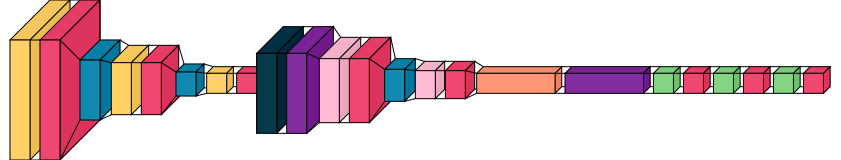
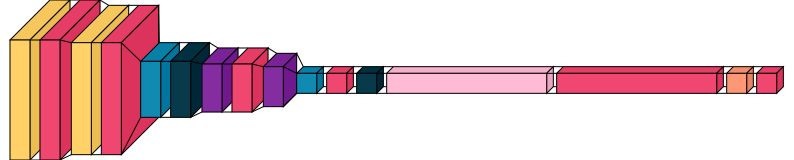
no

diff --git a/models.py b/models.py
@@ -90,33 +90,27 @@ class img_rec_models10():
     uom = 'RGB'
     def data_prep():
         (x_train, y_train), (x_test, y_test) = datasets.cifar10.load_data()
-        x_test = x_test.reshape((10000, 1, 32, 32, 3))
+        #x_test = x_test.reshape((10000, 1, 32, 32, 3))
         y_train = utils.to_categorical(y_train, 10)
         y_test = utils.to_categorical(y_test, 10)
         return (x_train, y_train), (x_test, y_test)
     class m01():
         model01 = Sequential([
             Input(shape=(32, 32, 3)),
-            layers.SeparableConv2D(filters=32, kernel_size=(3, 3),),
+            layers.SeparableConv2D(filters=32, kernel_size=(3, 3), ),
+            layers.Activation('relu'),
+            layers.SeparableConv2D(filters=32, kernel_size=(3, 3), ),
             layers.Activation('relu'),
             layers.MaxPool2D((2, 2)),
             layers.Dropout(0.2),
-            layers.SeparableConv2D(filters=32, kernel_size=(3, 3),),
+            layers.Conv2D(filters=64, kernel_size=(3, 3), kernel_initializer='random_normal'),
             layers.Activation('relu'),
-            layers.MaxPool2D((2, 2)),
-            layers.SeparableConv2D(filters=16, kernel_size=(2, 2),),
+            layers.Conv2D(filters=64, kernel_size=(3, 3), kernel_initializer='random_normal'),
+            layers.MaxPool2D((2, 2),),
             layers.Activation('relu'),
-            #layers.Reshape((20, 20, 1)),
-            #layers.Conv2D(32, (5, 5), kernel_initializer='random_normal'),
-            #layers.Activation('relu'),
-            #layers.MaxPool2D((2, 2)),
-            #layers.Conv2D(16, (2, 2), kernel_initializer='random_normal'),
-            #layers.Activation('relu'),
+            layers.Dropout(0.2),
             layers.Flatten(),
-            layers.Dropout(0.2),
-            layers.Dense(5, kernel_initializer='random_normal'),
-            layers.Activation('relu'),
-            layers.Dense(16, kernel_initializer='random_normal'),
+            #layers.Dense(16, kernel_initializer='random_normal'),
             layers.Activation('relu'),
             layers.Dense(10, kernel_initializer='random_normal'),
             layers.Activation('softmax')

diff --git a/train.py b/train.py
@@ -6,7 +6,7 @@ import json
 import models
 
 model_class = input("model class:\n>")
-model_num = input("model numder:\n>>")
+model_num = input("model number:\n>>")
 model = eval(f"models.{model_class}.m{model_num}.model{model_num}")
 num_classes = eval(f'models.{model_class}.out_size')
 input_shape = eval(f'models.{model_class}.in_size')
